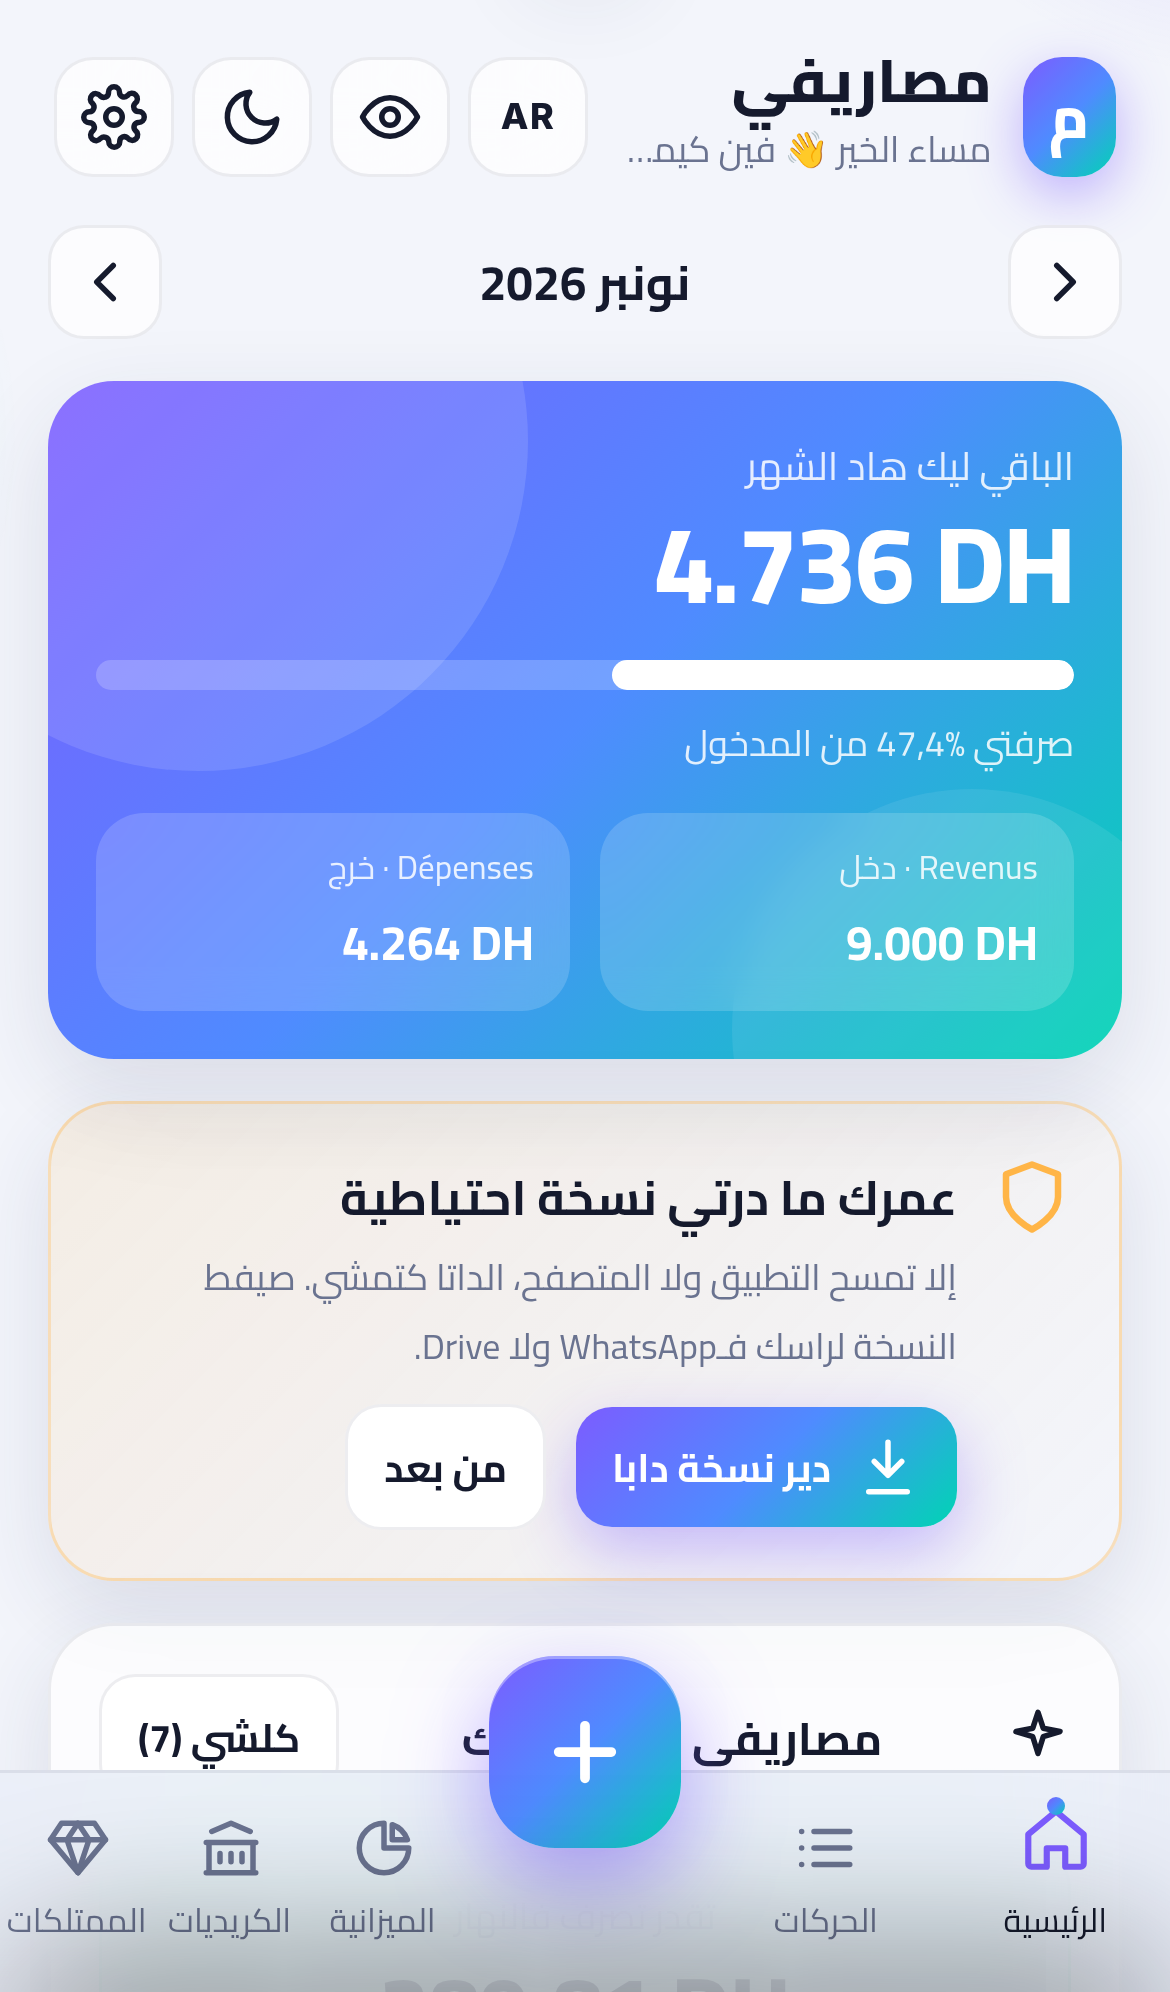
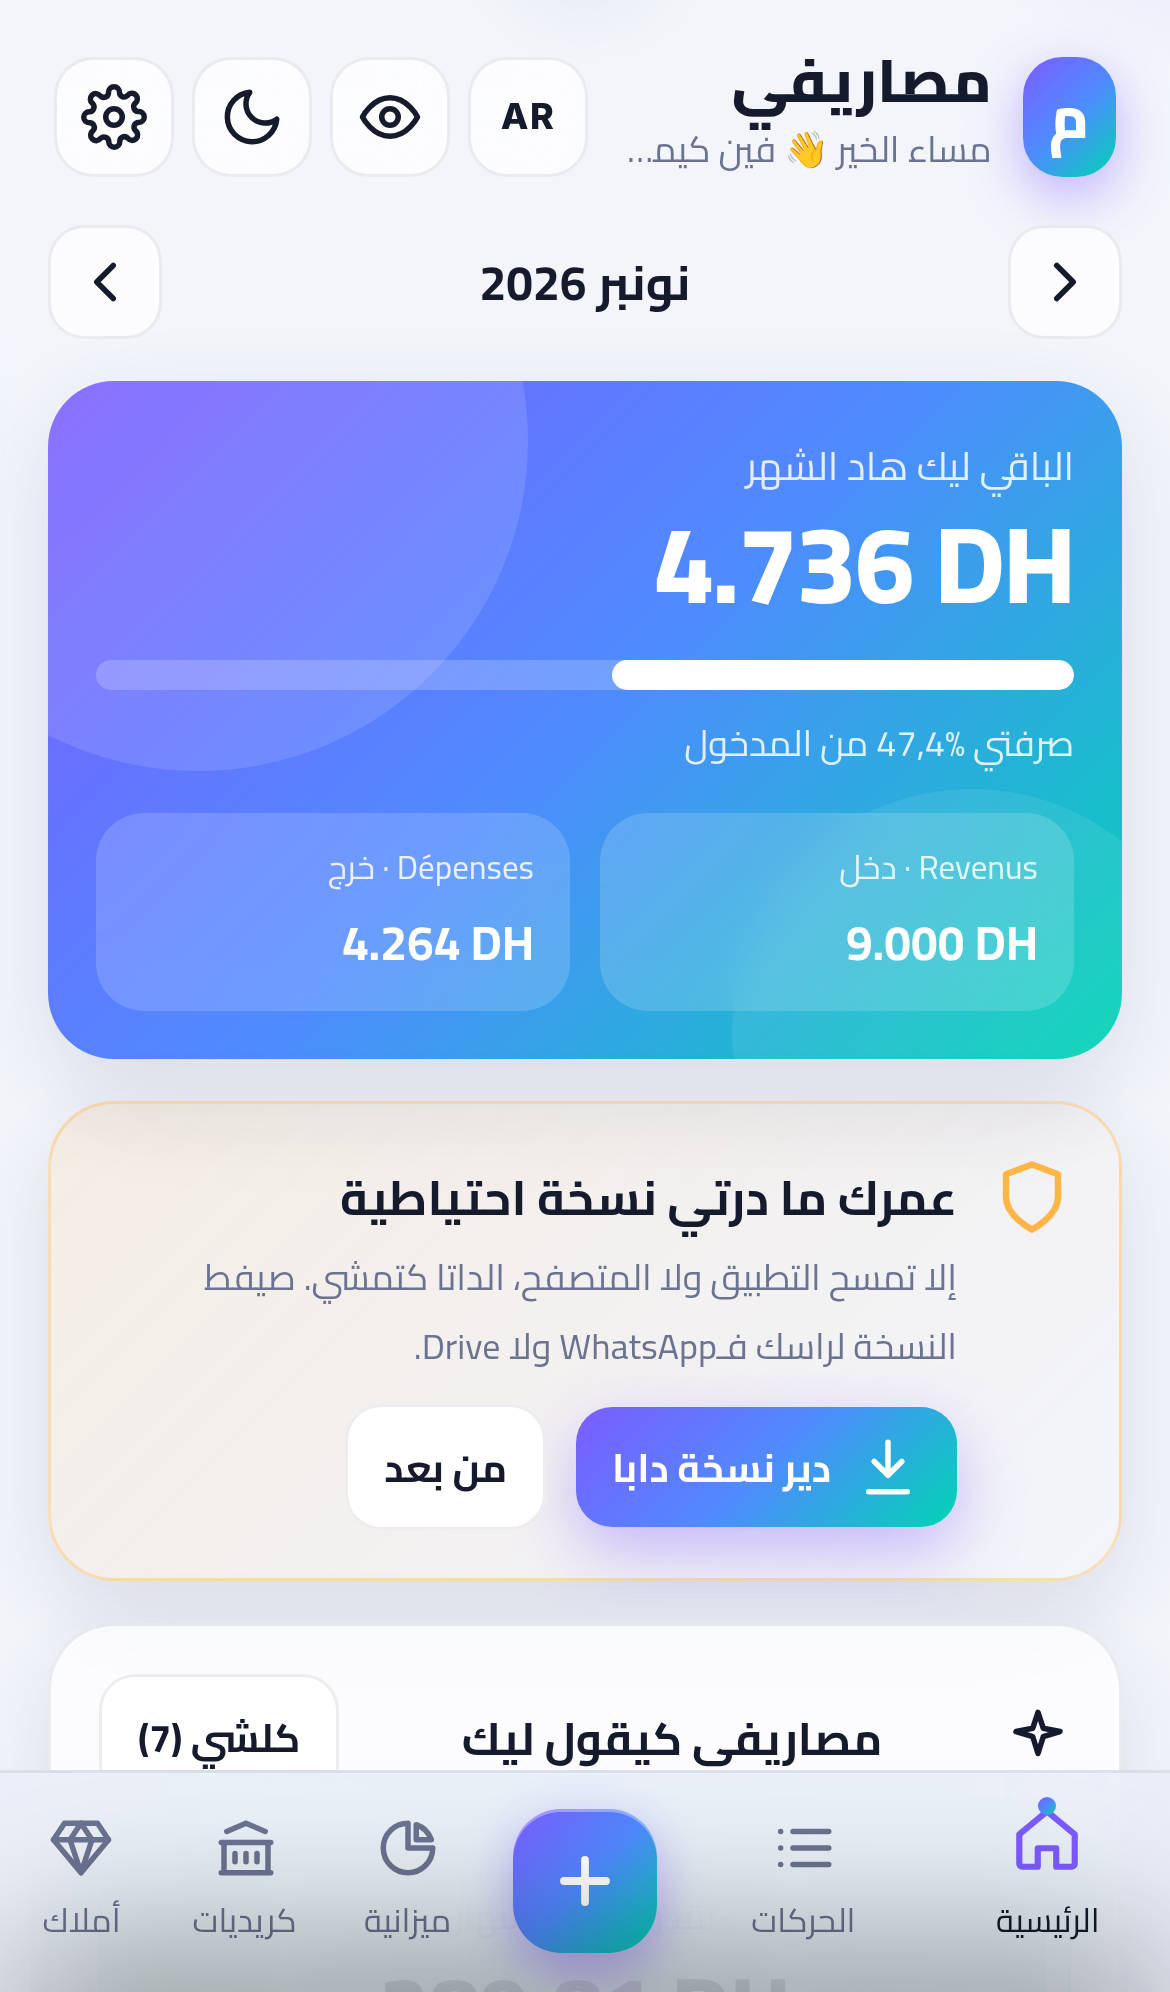
v8: privacy policy (ar/en/fr), manifest id/categories, privacy link in settings

diff --git a/privacy.html b/privacy.html
@@ -1,0 +1,93 @@
+<!doctype html>
+<html lang="en">
+<head>
+<meta charset="utf-8">
+<meta name="viewport" content="width=device-width,initial-scale=1">
+<title>Msarifi · Privacy Policy · سياسة الخصوصية · Politique de confidentialité</title>
+<meta name="description" content="Msarifi privacy policy: your data stays on your device. No accounts, no servers, no tracking.">
+<link rel="icon" href="icons/icon-192.png">
+<style>
+@font-face{font-family:Cairo;font-weight:200 1000;font-display:swap;src:url(fonts/cairo-arabic.woff2) format('woff2');unicode-range:U+0600-06FF,U+FE70-FEFF}
+@font-face{font-family:Inter;font-weight:100 900;font-display:swap;src:url(fonts/inter-latin.woff2) format('woff2')}
+:root{color-scheme:dark light;--bg:#0b0f1a;--card:#141a2b;--text:#eef1f8;--muted:#9aa4bd;--acc:#7c5cff}
+@media (prefers-color-scheme:light){:root{--bg:#f3f5fb;--card:#fff;--text:#141a2b;--muted:#5b6478}}
+body{margin:0;background:var(--bg);color:var(--text);font-family:Inter,Cairo,system-ui,sans-serif;line-height:1.65}
+main{max-width:760px;margin:0 auto;padding:24px 18px 60px}
+header{display:flex;align-items:center;gap:12px;margin-bottom:12px}
+header img{width:48px;height:48px;border-radius:14px}
+h1{font-size:22px;margin:0}
+nav{display:flex;gap:8px;margin:14px 0 22px}
+nav a{padding:6px 14px;border-radius:99px;background:var(--card);color:var(--text);text-decoration:none;font-weight:700;font-size:14px}
+section{background:var(--card);border-radius:20px;padding:6px 20px 16px;margin-bottom:18px}
+section[dir=rtl]{font-family:Cairo,system-ui,sans-serif}
+h2{font-size:19px}h3{font-size:15px;margin:18px 0 4px}
+p,li{color:var(--text)}small,.muted{color:var(--muted)}
+a{color:var(--acc)}
+</style>
+</head>
+<body>
+<main>
+<header><img src="icons/icon-192.png" alt=""><div><h1>Msarifi · مصاريفي</h1><small class="muted">Last updated / آخر تحديث / Mise à jour : 15 November 2026</small></div></header>
+<nav><a href="#ar">العربية</a><a href="#en">English</a><a href="#fr">Français</a></nav>
+
+<section id="ar" dir="rtl" lang="ar">
+<h2>سياسة الخصوصية</h2>
+<p>مصاريفي تطبيق لتسيير المصاريف الشخصية. تصاوب باش الداتا ديالك تبقى عندك أنت بوحدك.</p>
+<h3>شنو كنجمعو؟</h3>
+<p>والو. التطبيق ما كيجمع حتى معلومة شخصية، وما عندوش حسابات ولا تسجيل الدخول.</p>
+<h3>فين كتبقى الداتا ديالك؟</h3>
+<p>كاع داكشي اللي كتسجل (المصاريف، المداخيل، الميزانية، الكريديات، الممتلكات، الأهداف، الإعدادات والرمز السري) كيتخبى غير فالتيليفون ديالك، وسط التخزين المحلي ديال التطبيق. ما كيتصيفط لحتى سيرفر، وحنا ما كنشوفوهش.</p>
+<h3>التتبع والإشهار</h3>
+<p>ما كاين لا إشهار، لا أدوات تحليل، لا تتبع، لا كوكيز ديال الإشهار، ولا مشاركة مع شي طرف آخر.</p>
+<h3>النسخة الاحتياطية</h3>
+<p>إلا درتي نسخة احتياطية، كيتصاوب ملف عندك فالتيليفون، وأنت اللي كتختار فين تحطو (WhatsApp، Drive…). داك الشي كيخضع للشروط ديال الخدمة اللي اخترتي.</p>
+<h3>مسح الداتا</h3>
+<p>تقدر تمسح كلشي من الإعدادات ← «مسح كلشي»، ولا بمسح التطبيق ولا الداتا ديال المتصفح.</p>
+<h3>الدراري الصغار</h3>
+<p>التطبيق ماشي موجه للدراري تحت 13 عام، وما كيجمع حتى داتا عليهم.</p>
+<h3>التواصل</h3>
+<p>لأي سؤال: <a href="https://github.com/simoch769-netizen/msarifi/issues">github.com/simoch769-netizen/msarifi/issues</a> (GitHub: simoch769-netizen).</p>
+</section>
+
+<section id="en" dir="ltr" lang="en">
+<h2>Privacy Policy</h2>
+<p>Msarifi is a personal expense tracker. It is built so that your financial data stays with you.</p>
+<h3>What we collect</h3>
+<p>Nothing. The app does not collect any personal information and has no accounts or sign-in.</p>
+<h3>Where your data is stored</h3>
+<p>Everything you enter (expenses, income, budgets, loans, assets, goals, settings and the optional PIN) is stored only on your device, in the app's local storage. It is never sent to any server, and we cannot see it.</p>
+<h3>Tracking and ads</h3>
+<p>There are no ads, no analytics, no tracking, no advertising cookies and no sharing with third parties.</p>
+<h3>Backups</h3>
+<p>If you create a backup, a file is created on your device and you choose where to keep it (for example WhatsApp or Google Drive). That copy is then subject to the terms of the service you choose.</p>
+<h3>Deleting your data</h3>
+<p>You can delete everything from Settings → "Delete everything", or by uninstalling the app or clearing its data.</p>
+<h3>Children</h3>
+<p>The app is not directed at children under 13 and collects no data about them.</p>
+<h3>Changes</h3>
+<p>If this policy changes, the updated version will be published on this page.</p>
+<h3>Contact</h3>
+<p>Questions: <a href="https://github.com/simoch769-netizen/msarifi/issues">github.com/simoch769-netizen/msarifi/issues</a> (GitHub: simoch769-netizen).</p>
+</section>
+
+<section id="fr" dir="ltr" lang="fr">
+<h2>Politique de confidentialité</h2>
+<p>Msarifi est une application de suivi des dépenses personnelles, conçue pour que tes données financières restent chez toi.</p>
+<h3>Données collectées</h3>
+<p>Aucune. L'application ne collecte aucune information personnelle et n'a ni compte ni connexion.</p>
+<h3>Où sont stockées tes données</h3>
+<p>Tout ce que tu saisis (dépenses, revenus, budgets, crédits, actifs, objectifs, paramètres et code PIN facultatif) est stocké uniquement sur ton appareil, dans le stockage local de l'application. Rien n'est envoyé à un serveur et nous n'y avons pas accès.</p>
+<h3>Suivi et publicité</h3>
+<p>Pas de publicité, pas d'outils d'analyse, pas de suivi, pas de cookies publicitaires et aucun partage avec des tiers.</p>
+<h3>Sauvegardes</h3>
+<p>Si tu crées une sauvegarde, un fichier est créé sur ton appareil et tu choisis où le garder (par exemple WhatsApp ou Google Drive). Cette copie est alors soumise aux conditions du service choisi.</p>
+<h3>Suppression des données</h3>
+<p>Tu peux tout effacer depuis Paramètres → « Tout effacer », ou en désinstallant l'application ou en effaçant ses données.</p>
+<h3>Enfants</h3>
+<p>L'application ne s'adresse pas aux enfants de moins de 13 ans et ne collecte aucune donnée les concernant.</p>
+<h3>Contact</h3>
+<p>Questions : <a href="https://github.com/simoch769-netizen/msarifi/issues">github.com/simoch769-netizen/msarifi/issues</a> (GitHub : simoch769-netizen).</p>
+</section>
+</main>
+</body>
+</html>

diff --git a/app.js b/app.js
@@ -632,7 +632,7 @@ function settingsSheet() {
     <div class="card"><h2>${ic('phone')} ${L({ ar:'النقر على الظهر · Back Tap', en:'Back Tap (iPhone)', fr:'Toucher le dos (iPhone)' })}</h2><div class="muted" style="font-size:13px;line-height:1.8">${L({ ar:'1. Raccourcis / الاختصارات → + → «فتح URL» →', en:'1. Shortcuts → + → «Open URL» →', fr:"1. Raccourcis → + → «Ouvrir l'URL» →" })} <code style="direction:ltr;unicode-bidi:isolate">${esc(location.origin + location.pathname)}?add=1</code><br>${L({ ar:'2. Réglages → Accessibilité → Toucher → Toucher le dos → Toucher deux fois → اختار الراكورسي.', en:'2. Settings → Accessibility → Touch → Back Tap → Double Tap → pick the shortcut.', fr:'2. Réglages → Accessibilité → Toucher → Toucher le dos → Toucher deux fois → choisis le raccourci.' })}</div>
     <button class="btn sm" style="margin-top:8px" data-act="copyLink">${tr("نسخ الرابط")}</button></div>
     <div class="card"><h2>${ic('trash')} ${tr("مسح كلشي")}</h2><button class="btn danger block" data-act="reset">${ic('trash')} ${tr("مسح كلشي")}</button></div>
-    <div class="hint">${tr("مصاريفي v2")} · ${tr("بلا حساب، بلا سيرفر، بلا إشهار")} · ${tr("الداتا ديالك عندك")}</div>`, sh => {
+    <div class="hint">${tr("مصاريفي v2")} · ${tr("بلا حساب، بلا سيرفر، بلا إشهار")} · ${tr("الداتا ديالك عندك")} · <a href="privacy.html#${LANG}" target="_blank" rel="noopener" style="color:inherit">${L({ ar:'سياسة الخصوصية', en:'Privacy policy', fr:'Confidentialité' })}</a></div>`, sh => {
     $('#paydaySel', sh).onchange = e => { S.settings.payday = +e.target.value; save(); vib(8); toast(tr("تسجل نهار الصالير")); render(); };
   });
 }

diff --git a/sw.js b/sw.js
@@ -1,4 +1,4 @@
-const CACHE = 'msarifi-v7';
+const CACHE = 'msarifi-v8';
 const ASSETS = ['./', './index.html', './styles.css', './i18n.js', './app.js', './manifest.json', './fonts/cairo-arabic.woff2', './fonts/cairo-latin.woff2', './fonts/cairo-latin-ext.woff2', './fonts/inter-latin.woff2', './icons/icon-192.png', './icons/icon-512.png', './icons/apple-touch-icon.png'];
 self.addEventListener('install', e => { e.waitUntil(caches.open(CACHE).then(c => c.addAll(ASSETS)).then(() => self.skipWaiting())); });
 self.addEventListener('activate', e => { e.waitUntil(caches.keys().then(ks => Promise.all(ks.filter(k => k !== CACHE).map(k => caches.delete(k)))).then(() => self.clients.claim())); });
